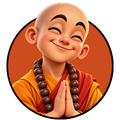
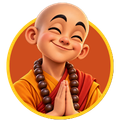
emojis updated

Changed region(s): [[0.05, 0.125, 0.95, 1.0]]

diff --git a/src/components/PopupBannerUpdated.tsx b/src/components/PopupBannerUpdated.tsx
@@ -83,7 +83,7 @@ const PopupBannerUpdated: React.FC<PopupBannerUpdatedProps> = ({ onClose }) => {
                 >
                   <div className="relative flex items-center justify-center">
                     <img
-                      src="/assets/emojis/subcribe.gif"
+                      src="/assets/emojis/subcribe.webp"
                       className="relative z-10"
                       alt="Welcome Robot"
                       loading="lazy"

diff --git a/src/components/LowBalancePopup.tsx b/src/components/LowBalancePopup.tsx
@@ -75,7 +75,7 @@ export default function LowBalancePopup({ visible, onClose, avatarUrl }: LowBala
                 >
                   <div className="relative flex items-center justify-center">
                     <img
-                      src="/assets/emojis/lb.gif"
+                      src="/assets/emojis/lb.webp"
                       className="relative z-10"
                       alt="Low Balance Robot"
                       loading="lazy"

diff --git a/src/components/PopupBannerUnsubscribe.tsx b/src/components/PopupBannerUnsubscribe.tsx
@@ -104,7 +104,7 @@ const PopupBannerUnsubscribe = ({
                 >
                   <div className="relative flex items-center justify-center">
                     <img
-                      src="/assets/emojis/unsub.gif"
+                      src="/assets/emojis/unsub.webp"
                       className="relative z-10"
                       alt="Unsubscribe Robot"
                       loading="lazy"
